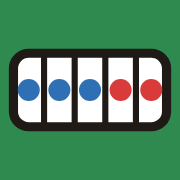
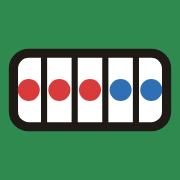
Farbcode wie im Schulbuch: links rot, rechts blau
Schüttelbox, Zahlenhaus, Plusaufgabe, Verbindungslinien, Würfel und
Wendeplättchen getauscht (Anna). Icons angepasst, Hinweis für Agenten
in CLAUDE.md/AGENTS.md aktualisiert.

diff --git a/schuettelbox/index.html b/schuettelbox/index.html
@@ -16,9 +16,10 @@
 @font-face{font-family:'Andika';font-style:normal;font-weight:400;font-display:swap;src:url(fonts/andika-400.woff2) format('woff2')}
 @font-face{font-family:'Andika';font-style:normal;font-weight:700;font-display:swap;src:url(fonts/andika-700.woff2) format('woff2')}
 :root{
+  /* Farbcode wie im Schulbuch: --blue = linker Teil (rot), --red = rechter Teil (blau) */
   color-scheme: light;
   --bg:#EDF2F8; --paper:#FFFFFF; --ink:#1E2B45; --muted:#5B6782;
-  --blue:#2F6FDB; --blue-t:#E2EBFB; --red:#D6453B; --red-t:#FBE3E0;
+  --blue:#D6453B; --blue-t:#FBE3E0; --red:#2F6FDB; --red-t:#E2EBFB;
   --ball:#F2B33D; --ball-hi:#FFE6A3; --ball-edge:#B97E10;
   --box:#8597B6; --boxfill:rgba(255,255,255,.65); --lid:#6F82A3; --lid2:#7D90B0;
   --roof:#3D5A8C; --line:#C8D2E2; --ok:#24875A; --sel:#FFF1C9; --onink:#FFFFFF;
@@ -30,7 +31,7 @@
   :root:not([data-theme="light"]){
     color-scheme: dark;
     --bg:#131A29; --paper:#1D2637; --ink:#EAF0FA; --muted:#A5B1C8;
-    --blue:#77A3F2; --blue-t:#203250; --red:#F0837A; --red-t:#43272A;
+    --blue:#F0837A; --blue-t:#43272A; --red:#77A3F2; --red-t:#203250;
     --ball:#F2B33D; --ball-hi:#FFE2A0; --ball-edge:#9C6A0C;
     --box:#6C7C99; --boxfill:rgba(255,255,255,.04); --lid:#4D5D7A; --lid2:#566785;
     --roof:#5A79B0; --line:#33405A; --ok:#3FAE74; --sel:#463A18; --onink:#131A29;
@@ -39,7 +40,7 @@
 :root[data-theme="dark"]{
   color-scheme: dark;
   --bg:#131A29; --paper:#1D2637; --ink:#EAF0FA; --muted:#A5B1C8;
-  --blue:#77A3F2; --blue-t:#203250; --red:#F0837A; --red-t:#43272A;
+  --blue:#F0837A; --blue-t:#43272A; --red:#77A3F2; --red-t:#203250;
   --ball:#F2B33D; --ball-hi:#FFE2A0; --ball-edge:#9C6A0C;
   --box:#6C7C99; --boxfill:rgba(255,255,255,.04); --lid:#4D5D7A; --lid2:#566785;
   --roof:#5A79B0; --line:#33405A; --ok:#3FAE74; --sel:#463A18; --onink:#131A29;
@@ -548,7 +549,7 @@ function chamberRound(v){
   hid=usePlates()?NONE():{left:false,right:true}; phase=S.partner?'answer':'shake';
   pending={a:v,b:S.n-v,need:{a:false,b:true},val:{a:'',b:''},active:'b'};
   hideLinks(); renderAll(true);
-  setMsg(usePlates()?`${v} Plättchen sind blau. Wie viele sind rot?`:`Links liegen ${v}. Wie viele fehlen bis ${S.n}?`,true,'hidden');
+  setMsg(usePlates()?`${v} Plättchen sind rot. Wie viele sind blau?`:`Links liegen ${v}. Wie viele fehlen bis ${S.n}?`,true,'hidden');
 }
 function key(k){
   if(!pending) return;
@@ -781,7 +782,7 @@ function forgotFlow(){
 
 /* ---------- Einstellungen ---------- */
 const SEGS=[
-  ['material','Material',[['box','Schüttelbox'],['plates','Wendeplättchen'],['dice','Würfel']],'Wendeplättchen: Blau zählt links, Rot rechts, ohne Deckel. Würfel: In jeder Kammer liegt ein Würfel. Es gibt nur Zerlegungen mit 1 bis 6 Augen, also Dachzahlen von 2 bis 12.'],
+  ['material','Material',[['box','Schüttelbox'],['plates','Wendeplättchen'],['dice','Würfel']],'Wendeplättchen: Rot zählt links, Blau rechts, ohne Deckel. Würfel: In jeder Kammer liegt ein Würfel. Es gibt nur Zerlegungen mit 1 bis 6 Augen, also Dachzahlen von 2 bis 12.'],
   ['hide','Kammern',[['none','Beide offen'],['left','Links zu'],['right','Rechts zu'],['both','Beide zu'],['random','Zufällig eine zu']]],
   ['mode','Ins Haus eintragen',[['auto','Automatisch'],['self','Kinder tragen ein']],'Bei verdeckter Kammer tragen die Kinder die versteckte Zahl immer selbst ein.'],
   ['eq','Plusaufgabe',[['button','Auf Knopfdruck'],['always','Immer'],['off','Aus']]],

diff --git a/AGENTS.md b/AGENTS.md
@@ -3,7 +3,7 @@
 - Zielgruppe: Grundschulkinder (v. a. Klasse 1) und ihre Lehrerin. Sprache der Oberfläche: Deutsch, kindgerecht, kurz.
 - Jede App = eine selbstständige `index.html` (HTML, CSS, JS in einer Datei). Keine Frameworks, kein Build, keine externen Skripte außer Google Fonts.
 - Bedienung per Touch (iPad/Handy) und am Digiboard: große Tippflächen (mind. 44 px), keine Abhängigkeit von Tastatur.
-- Farbcode Zahlzerlegung: links/erster Teil blau, rechts/zweiter Teil rot.
+- Farbcode Zahlzerlegung (wie im Schulbuch): links/erster Teil rot, rechts/zweiter Teil blau. Nicht zurücktauschen.
 - Didaktik: keine Punkte/Ranglisten, kooperativ, Fehler sind Teil des Lernens. Nichts vorwegnehmen (Lösungen, Anzahlen, Sortierung erst auf Knopfdruck).
 - Einstellungen in `localStorage`, Zugriffe immer in try/catch.
 - Datenschutz: keine Daten an Server senden, keine Tracker. Impressum/Datenschutz siehe `blitzrechnen/`.

diff --git a/CLAUDE.md b/CLAUDE.md
@@ -3,7 +3,7 @@
 - Zielgruppe: Grundschulkinder (v. a. Klasse 1) und ihre Lehrerin. Sprache der Oberfläche: Deutsch, kindgerecht, kurz.
 - Jede App = eine selbstständige `index.html` (HTML, CSS, JS in einer Datei). Keine Frameworks, kein Build, keine externen Skripte außer Google Fonts.
 - Bedienung per Touch (iPad/Handy) und am Digiboard: große Tippflächen (mind. 44 px), keine Abhängigkeit von Tastatur.
-- Farbcode Zahlzerlegung: links/erster Teil blau, rechts/zweiter Teil rot.
+- Farbcode Zahlzerlegung (wie im Schulbuch): links/erster Teil rot, rechts/zweiter Teil blau. Nicht zurücktauschen.
 - Didaktik: keine Punkte/Ranglisten, kooperativ, Fehler sind Teil des Lernens. Nichts vorwegnehmen (Lösungen, Anzahlen, Sortierung erst auf Knopfdruck).
 - Einstellungen in `localStorage`, Zugriffe immer in try/catch.
 - Datenschutz: keine Daten an Server senden, keine Tracker. Impressum/Datenschutz siehe `blitzrechnen/`.
